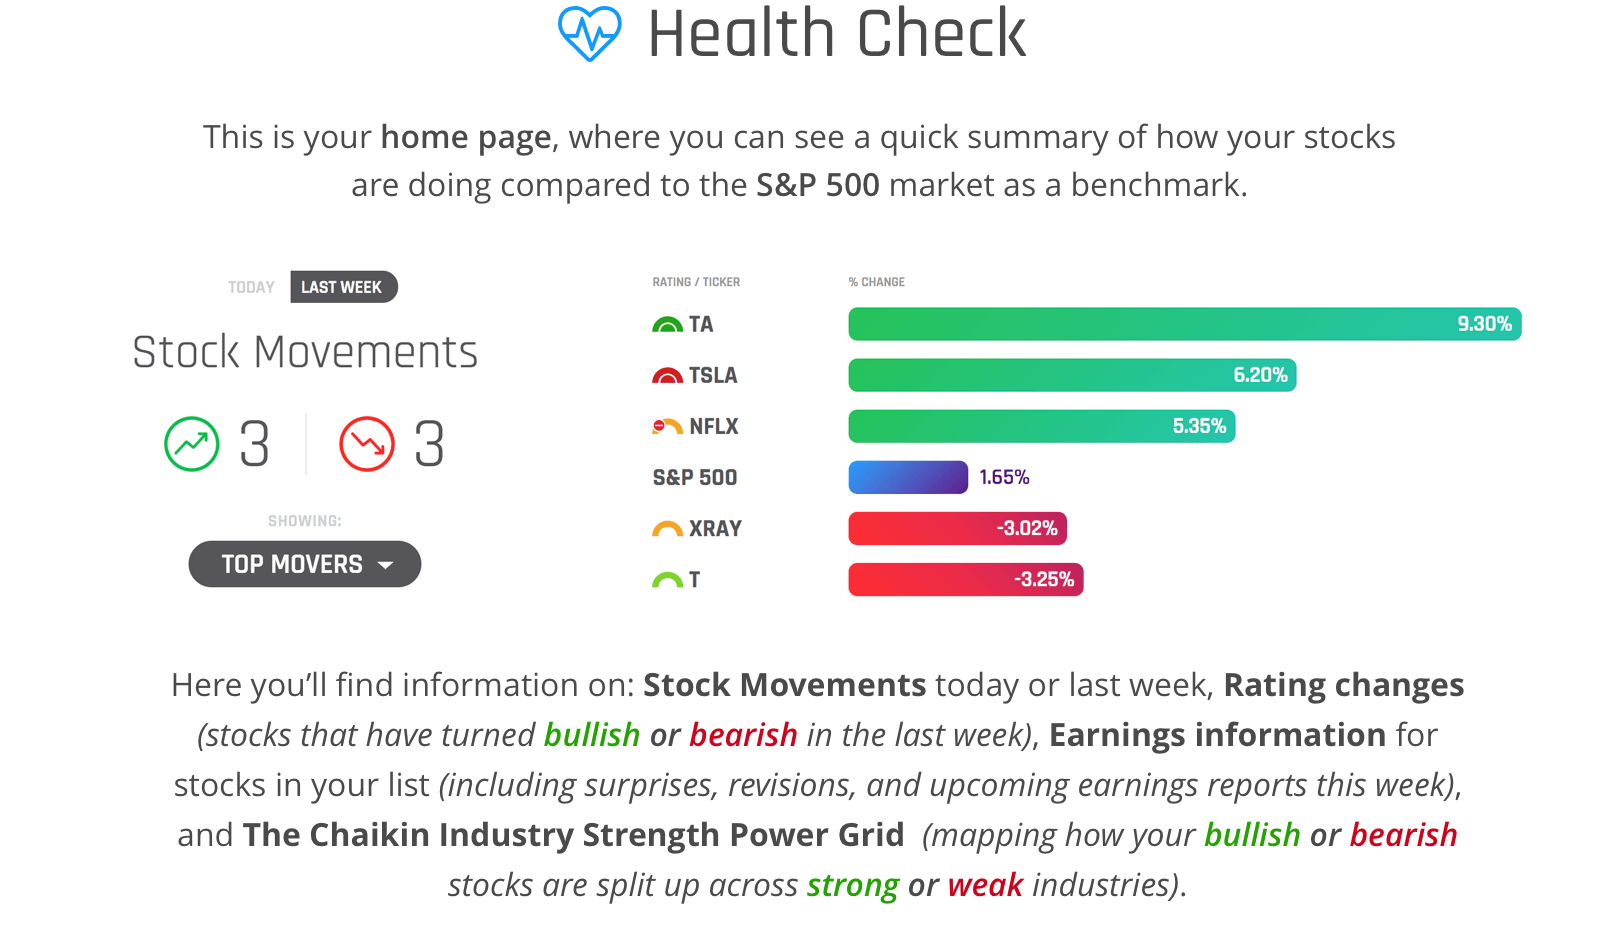
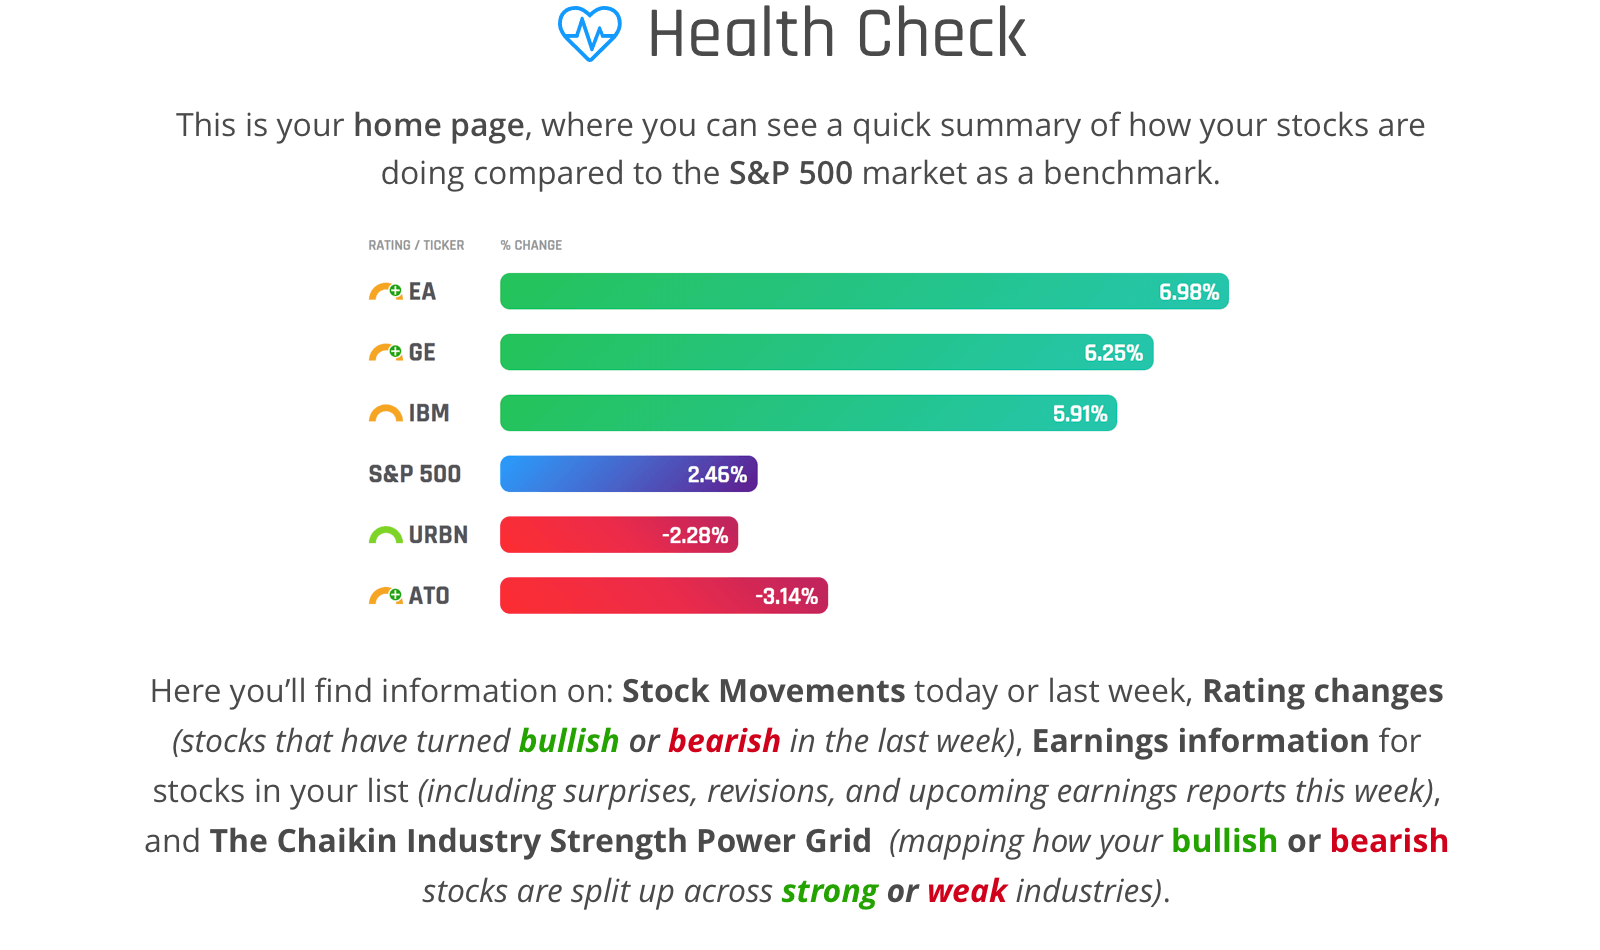
hotffix tweaks

diff --git a/src/app/psp/containers/health-check/stock-movements/stock-movements.component.ts b/src/app/psp/containers/health-check/stock-movements/stock-movements.component.ts
@@ -26,7 +26,7 @@ interface FilterFunc {
     <div id="HC--Stock-Movements" class="">
 
       <div class="row no-gutters">
-        <div class="col-12 col-xl-4">
+        <div class="col-12 col-xl-12">
           <div class="row section__toggle">
             <div class="col-12 toggle toggle--timespan">
               <p (click)="selectTimespan('TODAY')" [ngClass]="{'selected':this.selectedTimespan==='TODAY'}"
@@ -43,12 +43,12 @@ interface FilterFunc {
           </div>
 
           <div class="row no-gutters section__summary justify-content-center">
-            <div class="col-6 col-md-5 col-lg-4 col-xl-6 summary--left">
+            <div class="col-6 col-md-5 col-lg-4 col-xl-4 summary--left">
               <p><img
                 src="./assets/imgs/icon_circle-movement--green.svg">{{ selectedTimespan == 'WEEK' ? upStocksWeekly : upStocksDaily
                 }}</p>
             </div>
-            <div class="col-6 col-md-5 col-lg-4 col-xl-6 summary--right">
+            <div class="col-6 col-md-5 col-lg-4 col-xl-4 summary--right">
               <p><img
                 src="./assets/imgs/icon_circle-movement--red.svg">{{ selectedTimespan == 'WEEK' ? downStocksWeekly : downStocksDaily
                 }}</p>
@@ -80,7 +80,7 @@ interface FilterFunc {
           </div>
         </div>
 
-        <div class="col-12 col-xl-8">
+        <div class="col-12 col-xl-12">
           <div *ngIf="!collapse" class="row">
             <div class="col-12">
               <ul class="section__chart">
@@ -111,7 +111,7 @@ interface FilterFunc {
           </div>
         </div>
 
-        <div class="col-12 hidden-xl-up">
+        <div class="col-12">
           <div class="row">
             <div *ngIf="!collapse" (click)="toggleCollapse()" class="col-12 expand-collapse">
               <img src="./assets/imgs/ux__collapse--circle.svg">

diff --git a/src/app/psp/containers/health-check/health-check.component.scss b/src/app/psp/containers/health-check/health-check.component.scss
@@ -40,18 +40,19 @@
 			margin-bottom: 5px;
 			cursor: pointer;
 			z-index: 20;
+			min-width: 160px;
 
 			.btn {
-			    font-weight: 600;
+			    font-weight: 500;
 			    text-align: center;
 			    border: $line--white;
-			    padding: 8px 15px 5px 20px;
+			    padding: 8px 18px 5px 23px;
 			    border-radius: 25px;
 			}
 			.btn-primary {
 				cursor: pointer;
-		  		background-color: rgba(255,255,255,.9);
-			    font-size: 27px;
+		  		background-color: rgba(255,255,255,0.85);
+			    font-size: 26px;
 			    line-height: 1;
 				color: $font-color;
 				box-shadow: 0 0 0 0rem rgba(0, 123, 255, 0);
@@ -71,7 +72,7 @@
 		    min-width: 160px;
 		    padding: 42px 0 5px;
 		    margin: -44px 0px 0px;
-		    font-size: 22px;
+		    font-size: 20px;
 		    color: $font-color;
 		    width: 100%;
 		    overflow: hidden;
@@ -85,12 +86,12 @@
 
 			.dropdown-item {
 				cursor: pointer;
-				font-weight: 700;
+				font-weight: 600;
 				text-overflow: ellipsis;
 				overflow: hidden;
 				white-space: nowrap;
 				padding: 10px 10px;
-				border-top:2px solid #fff;
+				border-top:0px solid #fff;
 
 				&:hover {
 					background-color: rgba(17,153,255, 0.1);

diff --git a/src/app/psp/containers/my-stocks/my-stocks-list/my-stocks-list.component.scss b/src/app/psp/containers/my-stocks/my-stocks-list/my-stocks-list.component.scss
@@ -15,7 +15,7 @@
 		z-index: 20;
 
 		.btn {
-		    font-weight: 600;
+		    font-weight: 500;
 		    text-align: center;
 		    border: $line--white;
 		    padding: 8px 15px 5px 20px;
@@ -23,8 +23,8 @@
 		}
 		.btn-primary {
 			cursor: pointer;
-	  		background-color: rgba(255,255,255,.9);
-		    font-size: 27px;
+	  		background-color: rgba(255,255,255,.85);
+		    font-size: 26px;
 		    line-height: 1;
 			color: $font-color;
 			box-shadow: 0 0 0 0rem rgba(0, 123, 255, 0);
@@ -44,7 +44,7 @@
 	    min-width: 160px;
 	    padding: 42px 0 5px;
 	    margin: -44px 0px 0px;
-	    font-size: 22px;
+	    font-size: 20px;
 	    color: $font-color;
 	    width: 100%;
 	    overflow: hidden;
@@ -58,12 +58,12 @@
 
 		.dropdown-item {
 			cursor: pointer;
-			font-weight: 700;
+			font-weight: 600;
 			text-overflow: ellipsis;
 			overflow: hidden;
 			white-space: nowrap;
 			padding: 10px 10px;
-			border-top:2px solid #fff;
+			border-top:0px solid #fff;
 
 			&:hover {
 				background-color: rgba(17,153,255, 0.1);

diff --git a/src/app/psp/app.component.scss b/src/app/psp/app.component.scss
@@ -1137,6 +1137,8 @@ sub {
         .modal-title {
           text-align: center;
           margin: 0;
+          color:$font-color--mid;
+
         }
         i {
           color:$font-color--light;
@@ -1144,7 +1146,7 @@ sub {
     }
 
     .modal-body {
-        padding: 0 15px;
+        padding: 0 15px 15px;
         text-align: center;
 
         img {
@@ -1160,12 +1162,13 @@ sub {
           font-size: 20px;
           font-weight: 600;
           color:$link-blue;
-          margin-bottom:25px;
+          margin-top:10px;
+          padding-bottom:20px;
         }
     }
 
     .modal-footer {
-      padding: 15px;
+      padding:  20px 15px 10px;
       height: 60px;
       border-top: 0px solid #e9ecef;
       position: relative;

diff --git a/src/app/psp/containers/health-check/health-check.component.ts b/src/app/psp/containers/health-check/health-check.component.ts
@@ -31,7 +31,7 @@ import {SignalService} from '../../../services/signal.service';
 
         <!-- HEALTH-CHECK - Stock Movements -->
         <cpt-psp-stock-movements [calc]="calculations" [weeklyStocks]="stocksStatus"
-                                 [dailyStocks]="dailySymbolList" class="col-12 col-lg-10 col-xl-12"></cpt-psp-stock-movements>
+                                 [dailyStocks]="dailySymbolList" class="col-12 col-lg-10"></cpt-psp-stock-movements>
 
         <!-- HEALTH-CHECK - Ratings Changes -->
         <cpt-psp-rating-changes [alerts]="pgrChanges" class="col-12 col-lg-10"></cpt-psp-rating-changes>
